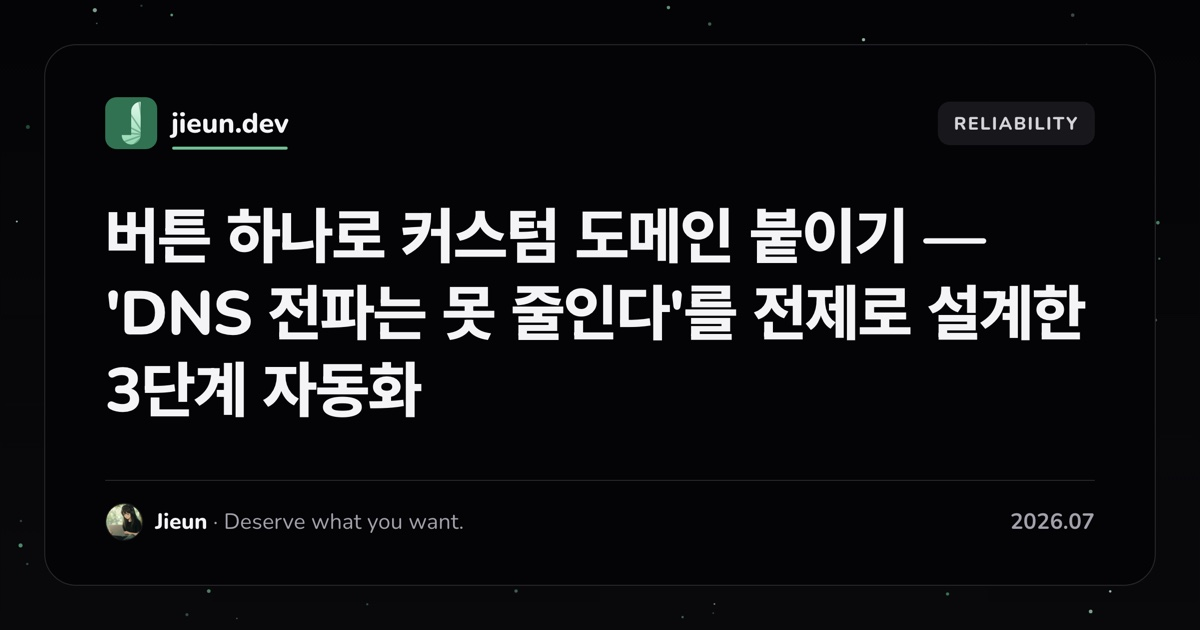
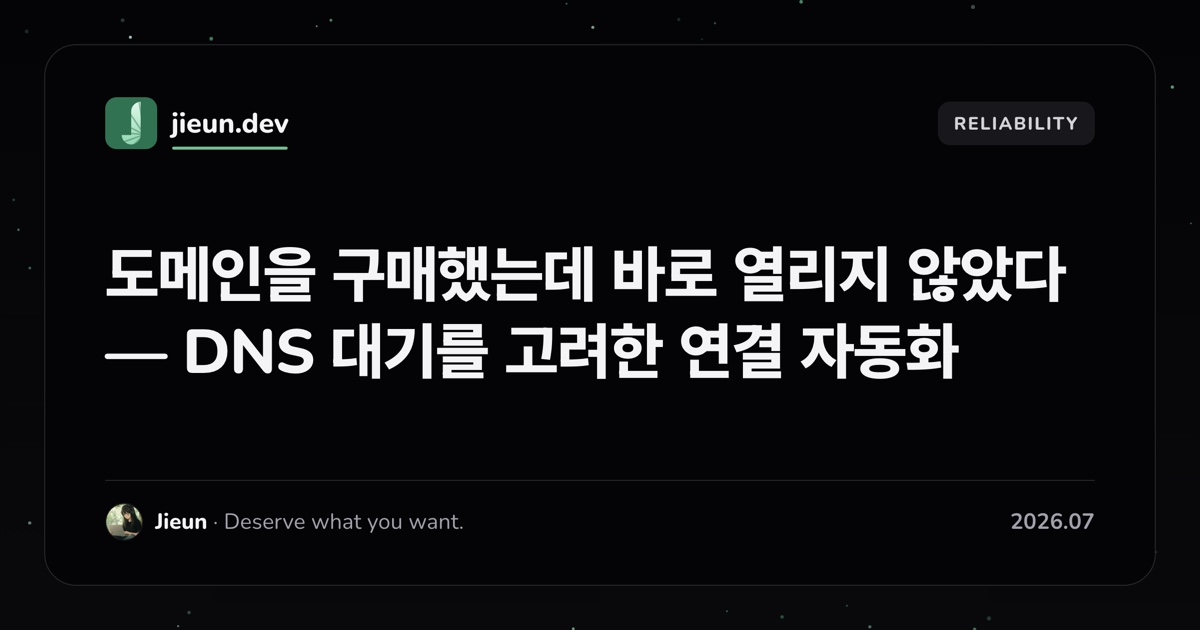
도메인 연결의 대기와 전환 조건을 구현에 맞춰 설명한다
Constraint: Keep URLs, publication dates, measurements, images, and other article bodies unchanged.
Confidence: high
Scope-risk: narrow
Tested: Astro build; bilingual series navigation separate from chronological navigation; canonical, hreflang, image paths, dates and measurement preservation; DNS, Caddy and GSC source comparison.
Not-tested: Historical raw purchase logs and live infrastructure experiments; English body translation is outside this change.

Changed region(s): [[0.0925, 0.3317, 0.925, 0.6635]]

diff --git a/src/content/blog/ko/automating-custom-domain-connection-a-delegation-gated-pipeline.md b/src/content/blog/ko/automating-custom-domain-connection-a-delegation-gated-pipeline.md
@@ -1,8 +1,9 @@
 ---
-title: "버튼 하나로 커스텀 도메인 붙이기 — 'DNS 전파는 못 줄인다'를 전제로 설계한 3단계 자동화"
-description: "도메인을 사서 블로그에 붙이는 기능을 만들었는데, 같은 코드로 네 번 사는 동안 네 번 다 다르게 실패했습니다. 원인은 하나였습니다. 우리가 못 줄이는 대기 구간(DNS 전파)을 무시하고 즉시 처리하려 한 것입니다. 이를 전제로 받아들이자 파이프라인이 '동기 1단계 + 워커 2단계'로 정리됐습니다."
-subtitle: "커스텀 도메인을 연결할 때 DNS 위임 전파를 기다리지 않아 인증서 발급과 검색엔진 등록이 실패했습니다. 위임 확인을 통과한 뒤 워커가 후속 작업을 수행하고 누락된 등록을 재처리하도록 연결 흐름을 자동화했습니다."
+title: "도메인을 구매했는데 바로 열리지 않았다 — DNS 대기를 고려한 연결 자동화"
+description: "도메인 구매와 DNS 설정, HTTPS 인증서 발급, 검색 등록을 자동화하며 겪은 실패를 정리했습니다. DNS 확인 이후 후속 작업을 실행하고 기존 주소를 유지하도록 연결 흐름을 바꿨습니다."
+subtitle: "도메인을 구매해도 외부 DNS에서 새 설정을 확인하기까지 시간이 필요했습니다. 즉시 처리할 작업과 DNS 확인 이후의 작업을 분리하고, 연결 상태 확인과 검색 등록 재처리를 자동화했습니다."
 pubDate: 2026-07-23
+updatedDate: 2026-10-25
 tags:
   [
     "dns",
@@ -18,144 +19,139 @@ category: reliability
 cover: /covers/automating-custom-domain-connection-a-delegation-gated-pipeline.webp
 coverAlt: "블로그 관리 화면에서 커스텀 도메인을 구매·연결하는 확인 모달"
 coverCaption: "구매 버튼 하나 뒤에 DNS 위임·인증서·검색엔진 등록이 자동으로 이어집니다."
+series: wiblog-custom-domains
+seriesOrder: 2
+seriesTitle: "위블로그 커스텀 도메인 도입기"
 ---
 
 ## 들어가며
 
-> [!NOTE]
-> 사용자가 "구매" 버튼을 누르면 도메인을 사서 블로그에 붙여주는 기능입니다. 버튼 한 번이면 될 줄 알았는데, 그 뒤엔 **우리가 코드로 못 줄이는 대기 구간**이 숨어 있었습니다.
+**위블로그 커스텀 도메인 도입기 · 2편**
 
-회사에서 운영하는 블로그 플랫폼은 각 블로그를 `myblog.example.com` 같은 서브도메인으로 서빙합니다. 여기에 사용자가 `myblog.shop` 같은 **자기 소유 커스텀 도메인**을 붙일 수 있게 하는 기능을 만들었습니다. 도메인 구매(Dynadot)부터 DNS·인증서·검색엔진 등록까지 **버튼 한 번에 자동으로** 끝나는 게 목표였습니다.
+위블로그에서는 사용자가 도메인을 구매하면 별도 설정 없이 자신의 블로그에 연결할 수 있도록 기능을 만들었습니다. 구매와 DNS 설정, HTTPS 인증서 발급, 구글 검색 등록까지 자동화하는 것이 목표였습니다.
 
-문제는 이를 테스트로 네 번 사보는 동안 **네 번 다 다르게 실패했다**는 점입니다. 24시간 동안 엉뚱한 페이지가 뜨기도 했고, 서버는 멀쩡한데 사용자만 못 들어가기도 했고, "완료"라는데 사이트가 안 열리기도 했습니다. 성공한 것도 있었지만 재현 가능한 성공은 아니었습니다.
+하지만 테스트를 위해 도메인을 네 번 구매하는 동안 연결 과정에서 매번 다른 문제가 생겼습니다. 어떤 도메인은 한동안 주차 페이지가 보였고, 어떤 도메인은 서버 설정이 끝났는데도 접속되지 않았습니다. 새 주소가 열리기 전에 기존 블로그 주소가 새 주소로 이동해, 멀쩡하던 블로그까지 볼 수 없었던 경우도 있었습니다.
 
-원인은 결국 하나로 모였습니다. **우리가 통제할 수 없는 대기 구간을 무시하고, 즉시 처리하려 했던 것.** 이 글은 그 대기를 전제로 받아들이고 파이프라인을 다시 세운 기록입니다.
+여러 문제를 추적해 보니 공통점이 있었습니다. 도메인을 구매하고 네임서버를 변경해도, 외부 DNS에서 새 설정을 확인하기까지는 시간이 필요했습니다. 그런데 초기 구현은 그 시간을 기다리지 않고 다음 작업을 실행했습니다.
 
----
+이후 **즉시 처리할 작업과 DNS 확인 이후 실행할 작업을 분리**했습니다. 첫 테스트에서는 연결까지 38분이 걸리고 세 번 수동으로 개입했지만, 마지막 테스트에서는 11분 만에 수동 개입 없이 연결을 마쳤습니다. 두 사례의 비교이므로 모든 도메인에서 같은 시간이 걸린다는 뜻은 아닙니다.
 
-## 1\. 문제 — 왜 "즉시 연결"이 불가능한가
+[1편 — 글은 발행됐는데 검색되지 않았다](/ko/blog/from-shared-subdomains-to-custom-domains-for-search-indexing/)에서는 위블로그가 커스텀 도메인을 권장하게 된 배경을 다뤘습니다. 이번 글은 별도의 구현 기록입니다. 시리즈 순서는 읽는 흐름에 맞춘 것이며, 아래 개발과 테스트의 실제 진행 순서를 바꿔 서술한 것은 아닙니다.
 
-도메인을 붙이는 일은 이사와 비슷합니다. 짐만 옮긴다고 끝이 아니라, 주소 이전 신고를 하고, 집 열쇠(인증서)를 받고, 우체국·검색엔진에 새 주소를 알려야 편지가 제대로 옵니다.
+## 1. 구매 완료와 연결 완료는 달랐습니다
 
-이 중 **주소 이전 신고(DNS 위임)** 가 핵심입니다. "이 도메인은 이제 Cloudflare 네임서버를 보세요"라고 등록기관에 알리는 건데, 이게 **전 세계 DNS에 퍼지는 데 시간이 걸립니다.** 실측하면 이랬습니다.
+도메인 연결은 한 번의 API 호출로 끝나는 작업이 아니었습니다.
 
-```plaintext
-도메인 A   위임 전파   2분
-도메인 B   위임 전파   13분
-```
+1. **도메인 구매:** Dynadot에서 도메인을 등록합니다.
+2. **DNS 설정:** Cloudflare에 서버 주소를 등록하고 도메인의 네임서버를 변경합니다.
+3. **HTTPS 설정:** 새 주소로 접속할 수 있도록 Caddy 설정과 인증서를 준비합니다.
+4. **검색 등록:** Google Search Console(GSC)에서 도메인 소유권을 확인하고 사이트맵을 제출합니다.
 
-같은 코드로 산 도메인인데 6배 넘게 차이 납니다. 등록기관·레지스트리·인터넷 사정이라 **우리가 코드로 줄일 수 있는 값이 아닙니다.**
+서로 다른 서비스가 관여하기 때문에 앞 단계의 API가 성공했다고 다음 단계도 준비됐다고 볼 수 없었습니다.
 
-그래서 진짜 질문은 "어떻게 빠르게 연결할까"가 아니라 **"이 대기를 어떻게 감출까"** 였습니다. 답은 단순합니다.
+실제로 네임서버 변경 사항이 확인되기까지 걸린 시간은 테스트한 도메인마다 달랐습니다.
 
-- **몇 초 안에 끝나는 것** → 사용자가 기다리는 동안 즉시 처리 (동기)
-- **기다려야 하는 것** → 워커에게 넘기고, 사용자는 화면을 떠나도 되게 (비동기)
+| 테스트 사례 | 네임서버 변경 사항을 확인하기까지 걸린 시간 |
+|---|---:|
+| 도메인 A | 약 2분 |
+| 도메인 B | 약 13분 |
 
-파이프라인이 **동기 1단계 + 워커 2단계**로 갈라진 이유가 이것입니다. 이제 각 단계를 살펴보겠습니다.
+둘 다 같은 연결 코드를 사용했습니다. 이 시간은 당시의 관찰값이지 DNS 변경이 항상 2~13분 안에 완료된다는 뜻은 아닙니다.
 
----
+초기 구현에서는 네임서버 변경 요청 직후 Caddy 설정을 적용하고 GSC 소유권 확인도 시도했습니다. 그러나 외부 DNS에서 새 도메인 설정을 아직 찾지 못하는 상황이라면 HTTPS 인증서 발급이나 소유권 확인은 실패할 수 있습니다.
 
-## 2\. 1단계 — 즉시 세팅 (동기, 몇 초)
+**연결 준비가 끝났는지 확인한 뒤 다음 작업을 실행하도록 바꾸는 것**이 필요했습니다.
 
-사용자가 버튼을 누르고 응답을 기다리는 구간입니다. 그래서 여기서는 **되돌릴 수 없거나 몇 초 안에 끝나는 것만** 합니다.
+## 2. 구매 직후에는 기다릴 필요 없는 설정만 처리했습니다
 
-1. **도메인 실구매** — 가격이 검색 때와 다르면 멈추고 다시 물어본 뒤 결제(Dynadot)
-2. **A 레코드 등록** — "이 이름 = 우리 서버"를 Cloudflare에 적음
-3. **위임(set_ns)** — "이 도메인은 Cloudflare를 보세요"를 등록기관에 신고
-4. **검색엔진용 TXT 게시** — 구글이 나중에 소유 확인할 때 볼 쪽지만 붙여둠
-5. **caddy·빌드 작업을 큐에 던지고 응답 반환**
+사용자가 구매 버튼을 누른 뒤 오래 기다리지 않도록, 처음 요청에서는 바로 할 수 있는 작업만 처리했습니다.
 
-순서가 사고로 정해진 게 두 군데 있습니다.
+- 검색 시 확인한 가격과 실제 결제 가격이 달라졌다면 구매를 중단하고 다시 확인받습니다.
+- Dynadot에서 도메인을 구매합니다.
+- Cloudflare에 서버 주소를 가리키는 A 레코드를 등록합니다.
+- 등록기관에 Cloudflare 네임서버 사용을 요청합니다.
+- 소유권 확인용 TXT 레코드를 등록합니다.
+- 남은 연결 작업은 큐에 등록하고 화면에는 **‘연결 중’** 상태를 표시합니다.
 
-**A 레코드가 위임보다 먼저여야 합니다.** 반대로 하면, 위임이 먼저 퍼진 그 틈에 Cloudflare가 "그런 주소 없음(NXDOMAIN)"을 권위 있게 답합니다. 그 응답이 사용자의 통신사 DNS에 캐시되면, 도메인이 살아난 뒤에도 **그 사용자만 최대 1시간 접속하지 못합니다.** 답(A 레코드)을 먼저 깔아두면 위임이 퍼지는 순간 이미 답이 있어 이 틈이 사라집니다.
+여기서 **A 레코드를 준비한 다음 네임서버를 바꾸는 순서**가 중요했습니다.
 
-**set_ns는 "완료됐다"는 응답을 믿지 않습니다.** 구매 직후 몇 초는 등록기관이 도메인을 완전히 준비하기 전이라, API가 `success`를 돌려주면서 **실제로는 아무것도 안 바꾸는** 경우가 있었습니다. 그래서 신고 후 실제 네임서버를 다시 읽어 기대값과 대조하고, 다르면 재시도합니다.
+네임서버 변경이 먼저 반영됐는데 Cloudflare에 A 레코드가 없다면, DNS 조회에서 요청한 주소 정보가 없다는 부정 응답이 반환될 수 있습니다. 그 응답이 캐시에 남으면 레코드를 추가한 뒤에도 일부 사용자에게 접속 문제가 계속될 수 있습니다.
 
-**GSC는 TXT 쪽지만 붙이고, 소유 확인은 여기서 하지 않습니다.** 이 시점엔 위임이 안 퍼져 구글이 쪽지를 볼 수 없어 반드시 실패하기 때문입니다. 왜 확인을 미루는지는 4장에서 다루겠습니다.
+네임서버 변경 API의 성공 응답만 믿을 수도 없었습니다. 구매 직후 등록기관에서 도메인 준비가 끝나기 전에 변경을 요청하면, 성공 응답을 받았지만 기대한 네임서버가 실제로 설정되지 않은 사례가 있었습니다. 그래서 변경 후 설정값을 다시 조회하고 일치하지 않으면 재시도하도록 했습니다.
 
-여기까지 몇 초. 사용자 화면엔 "연결 중"이 뜨고, 나머지는 워커에게 넘어갑니다.
+GSC 소유권 확인은 이 단계에서 하지 않았습니다. TXT 레코드를 등록했더라도 외부 DNS에서 새 네임서버를 아직 조회하지 못하면 구글이 해당 레코드를 확인할 수 없기 때문입니다.
 
----
+## 3. 네임서버 변경을 확인한 뒤 HTTPS를 열었습니다
 
-## 3\. 2단계 — 위임 대기와 문 열기 (워커)
+구매 요청에서 넘긴 작업은 별도의 워커가 처리합니다. 워커는 공개 DNS 서비스(1.1.1.1과 8.8.8.8)를 통해 네임서버 설정을 조회했습니다.
 
-여기가 핵심입니다. 워커는 **위임이 퍼진 걸 직접 확인한 뒤에만** 도메인을 엽니다.
+- 두 공개 DNS 중 어느 곳에서도 Cloudflare 네임서버가 확인되지 않으면 Caddy 설정을 적용하지 않고 재시도합니다.
+- 한 곳에서 Cloudflare 네임서버가 확인되면 Caddy에 새 도메인과 기존 주소의 리다이렉트 설정을 함께 적용합니다.
+- 이후 새 주소의 HTTPS 응답을 확인하고 활성화 기록과 캐시 정리를 진행합니다.
 
-```plaintext
-caddy-reload 잡
-  │
-  ├─ ① 위임 게이트 ── 공개 DNS(1.1.1.1/8.8.8.8)로 "이 도메인 네임서버가 Cloudflare인가?" 확인
-  │      아직이면 → 잡을 실패시켜 재시도 (설정 안 씀)
-  │      확인되면 → 계속
-  │
-  ├─ ② Caddy 설정 기록 → 인증서 자동 발급 → HTTPS 열림
-  │
-  └─ ③ 뒷정리 (구 주소 301 · 엣지 캐시 purge · HTML 캐시 규칙)
-```
+기존 구현에서는 DNS가 준비되지 않은 상태에서 Caddy가 인증서 발급을 시도한 뒤, 재시작하기 전까지 새 주소가 열리지 않았던 사례가 있었습니다. 당시 관찰한 장애는 여기에 해당하지만, 모든 환경에서 같은 실패가 영구적으로 발생한다는 뜻은 아닙니다.
 
-**①번 게이트가 이 설계의 핵심입니다.** Caddy는 설정을 받는 순간 그 도메인의 인증서를 발급하려 합니다. 그런데 위임이 안 퍼진 상태에서 발급을 시도하면, 인증서 발급기가 도메인의 상위 영역을 잘못 지목해 **그 오판을 캐시**합니다. 이 캐시는 재시작 전까지 안 지워져서, 한 번 이렇게 되면 도메인이 **영구히 열리지 않습니다.** 실제로 이 문제로 한 도메인이 재시작하기 전까지 계속 열리지 않았습니다.
+또 다른 문제는 **기존 주소를 너무 일찍 새 주소로 보내는 것**이었습니다. 이전에는 새 도메인이 열리지 않는데도 기존 서브도메인을 새 주소로 리다이렉트해, 원래 접속할 수 있던 블로그까지 접근하기 어려워졌습니다.
 
-게이트는 이 사고를 원천 차단합니다. "확인되기 전엔 설정을 안 쓴다"는 규칙 하나만 적용하면 됩니다. 그리고 부수 효과로 **다운타임도 사라집니다.** 설정 안에는 "구 주소 → 새 주소" 리다이렉트가 함께 들어 있는데, 예전엔 새 도메인이 열리지 않는 동안 구 주소까지 열리지 않는 새 주소로 리다이렉트됐습니다. 게이트가 막고 있으면 그동안 구 주소(`myblog.example.com`)가 계속 정상 서빙됩니다.
+네임서버 변경이 확인되기 전까지 기존 주소는 그대로 서비스하도록 순서를 바꿨습니다. 다만 리다이렉트 설정은 HTTPS 응답 확인보다 먼저 적용되므로, 인증서 준비가 늦어지는 동안의 접근 문제까지 없어진다고 보장하지는 않습니다.
 
-재시도 예산은 넉넉하게 잡았습니다. **1분 간격으로 최대 6시간.** 위임 전파가 아무리 느려도 그 안에 끝나면 다음 시도에서 바로 통과하고, 대기 중인 잡은 비용이 없으니 예산을 크게 둬도 부담이 없습니다.
+워커는 당시 1분 간격으로 최대 6시간 재시도하도록 설정했습니다. 이것은 DNS가 6시간 안에 반드시 반영된다는 보장이 아니라, 그동안 자동으로 상태를 확인하기 위한 운영 정책입니다. 공개 DNS 두 곳의 확인만으로 모든 사용자의 DNS 캐시가 갱신됐다고 보장할 수 없다는 한계도 있습니다.
 
----
+## 4. 검색엔진 등록은 별도 작업으로 처리했습니다
 
-## 4\. 3단계 — 검색엔진 등록을 워커로 (백필)
+HTTPS 연결이 준비돼도 검색엔진 등록은 별도의 단계가 필요했습니다. GSC의 도메인 소유권을 확인하려면 구글이 DNS TXT 레코드를 읽을 수 있어야 합니다.
 
-이 글에서 가장 손이 많이 간 부분입니다. 구글 검색등록(GSC)은 **소유 확인 → 사이트맵 제출** 순인데, 소유 확인이 까다롭습니다.
+처음에는 도메인 구매 직후 약 18초 동안 확인을 재시도했습니다. 하지만 테스트에서 이 구간에 소유권 확인이 성공하지 않아 사용자만 더 기다리게 됐습니다.
 
-확인 방법은 DNS에 붙여둔 TXT 쪽지를 구글이 읽는 것입니다. 그런데 구글이 쪽지를 읽으려면 위임이 다 퍼져 있어야 합니다. 안 퍼졌으면 구글은 "그런 도메인 몰라요"라는 답만 받고 소유 확인을 거부합니다. **즉 구매 직후엔 GSC 등록이 무조건 실패합니다.** 실제로 테스트한 도메인 다섯 건이 전부 구매 시점 확인에서 실패했습니다.
+이를 없애고 다음처럼 바꿨습니다.
 
-원래는 이를 구매 직후에 잠깐(18초) 재시도했습니다. 그런데 위임 전파가 최소 2분이라 18초 안에 끝나는 경우는 없었고, 결국 **사용자를 18초 더 기다리게 하는** 코드였습니다. 그래서 이 시도를 없앴습니다. 대신 작업을 이렇게 나눴습니다.
+| 실행 시점 | 작업 |
+|---|---|
+| 구매 직후 | 소유권 확인용 TXT 레코드 등록 |
+| 네임서버 확인 이후 | GSC 소유권 확인 및 사이트맵 제출 시도 |
+| 30분마다 | 이전 시도가 실패했거나 누락된 도메인 재처리 |
 
-- **1단계(구매 직후):** TXT 쪽지만 붙입니다. 확인·제출은 하지 않습니다.
-- **워커(위임 확인 후):** 그때 소유 확인 → 사이트맵 제출을 두 번에 나눠 백필합니다.
+주기적인 확인을 추가한 이유는 네임서버 변경이 끝나도 구글 API 오류나 작업 중단으로 검색 등록이 실패할 수 있기 때문입니다. 실제로 자동 등록이 누락돼 수동 복구 스크립트를 실행해야 했던 사례가 있었습니다.
 
-두 번으로 나눈 이유가 있습니다.
+한 시점에서 같은 요청을 빠르게 반복하는 대신, **연결 가능 상태가 된 뒤 시도하고 실패한 작업은 나중에 다시 확인**하도록 했습니다.
 
-| 시점             | 역할                                                  |
-| ---------------- | ----------------------------------------------------- |
-| 위임 확인 직후   | **정상 경로.** 인증서 발급 뒤 이어서 GSC까지 등록     |
-| 30분마다(스케줄) | **안전망.** 정상 경로가 놓친 도메인을 주기적으로 줍기 |
+## 5. 사용자에게는 실제 접속 상태를 보여줬습니다
 
-안전망이 필요한 이유는 위임 확인 직후 등록도 실패할 수 있기 때문입니다. 워커가 그때 재시작 중이었거나, 구글 API에 일시 장애가 있었을 수 있습니다. 실제로 한 도메인이 이런 이유로 몇 시간 방치된 적이 있었고, 그때는 제가 손으로 복구 스크립트를 돌려야 했습니다. 30분 스케줄이 있으면 사람 없이 자동으로 처리됩니다.
+사용자 화면에는 ‘연결 중’ 모달을 띄우고 약 5초마다 상태를 확인하도록 했습니다.
 
-핵심은 **"한 번 더"가 아니라 "다른 순간에"** 입니다. 같은 시점에 여러 번 시도하면 다 똑같은 이유로 실패합니다. 위임 확인 직후 한 번, 그 뒤 주기적으로 한 번 — 각자 다른 실패를 담당합니다.
+단순히 데이터베이스의 작업 완료 여부만 읽는 대신, 서버에서 DNS와 HTTPS 상태를 조회해 실제 접근 가능 여부를 판단했습니다. 큐의 작업 상태와 사용자가 접속할 수 있는 상태는 반드시 같지 않기 때문입니다.
 
----
+새 도메인 연결이 확인되기 전에는 클릭 가능한 링크로 제공하지 않았습니다. 브라우저나 다른 소프트웨어가 링크 주소를 미리 조회할 경우, 아직 준비되지 않은 DNS 응답이 캐시될 가능성을 줄이기 위해서였습니다. 연결 전에는 기존 블로그 주소를 계속 제공했습니다.
 
-## 5\. 화면은 어떻게 진행을 따라가나
+이렇게 구매 완료와 실제 서비스 가능 상태를 구분해 표시했습니다.
 
-사용자 화면은 "연결 중" 모달을 띄우고 5초마다 상태를 물어봅니다. 이때 상태를 **DB에 저장해두고 읽는 게 아니라, 매번 DNS·HTTPS를 실제로 조회해 판정**합니다. 저장값은 워커가 중단되거나 전파가 흔들리면 현실과 어긋나기 때문입니다.
+## 6. 마지막 구매 테스트에서는 수동 개입 없이 연결됐습니다
 
-한 가지 더, **완료 전에는 새 도메인을 링크로 보여주지 않습니다.** 브라우저는 화면의 링크를 미리 DNS 조회하는데(prefetch), 아직 위임 전인 새 주소를 링크로 걸면 그 조회가 "없음"을 통신사 DNS에 캐시시킵니다. 그러면 도메인이 살아난 뒤에도 그 사용자만 한동안 못 들어갑니다. 그래서 연결 중에는 **아직 살아 있는 구 주소를 대표로** 보여주고, 새 주소는 텍스트로만 노출합니다.
+초기 테스트와 마지막 테스트의 기록은 다음과 같습니다.
 
----
+| 항목 | 첫 테스트 | 마지막 테스트 |
+|---|---|---|
+| 연결까지 걸린 시간 | 38분 | 11분 |
+| 수동 개입 | 3회 | 0회 |
+| 연결을 위해 서버 재시작 | 필요 | 불필요 |
+| 이전 블로그 주소 | 새 주소 문제의 영향을 받음 | 네임서버 확인 전까지 유지 |
 
-## 6\. 결과 — 수동 3회에서 0회로
+개선 과정에서 중요했던 설정 중 하나는 **등록기관 계정의 기본 네임서버를 처음부터 Cloudflare로 지정한 것**입니다.
 
-첫 도메인과 마지막 도메인을 비교하면 이렇게 바뀌었습니다.
+첫 테스트에서는 도메인이 잠시 등록기관의 기본 주차 페이지를 가리키는 상태로 시작했습니다. 일부 DNS 캐시에 그 응답이 남아 새 사이트 대신 주차 페이지가 표시되는 문제가 있었습니다. 초기 네임서버 설정을 바꾼 뒤에는 테스트에서 이 중간 상태를 피할 수 있었습니다.
 
-| 항목        | 첫 시도                | 마지막 시도 |
-| ----------- | ---------------------- | ----------- |
-| 소요        | 38분                   | 11분        |
-| 수동 개입   | **3회**                | **0회**     |
-| 서버 재시작 | 필요                   | 불필요      |
-| 구 주소     | 열리지 않는 새 주소로 리다이렉트 | 계속 정상   |
+결과가 좋아진 이유를 하나의 변경으로만 설명할 수는 없습니다. 레코드 생성 순서, 네임서버 확인, 인증서 발급 시점, 리다이렉트 전환, 주기적인 복구 작업을 함께 바꿨기 때문입니다. 첫 테스트와 마지막 테스트는 서로 다른 도메인을 사용했으므로, 소요 시간 차이 전체가 코드 개선 덕분이라고 단정하지도 않습니다.
 
-가장 크게 바꾼 건 사실 코드가 아니었습니다. **등록기관 계정의 기본 네임서버를 Cloudflare로 지정한 설정 한 줄**이었습니다.
-
-첫 도메인이 24시간 동안 엉뚱한 파킹 페이지를 띄운 원인이 여기 있었습니다. 도메인이 처음엔 등록기관 기본 네임서버(파킹)로 태어났다가 나중에 Cloudflare로 바뀌는데, 그 짧은 파킹 상태가 통신사 DNS에 캐시되면 **최대 24시간** 남았습니다. 기본값을 처음부터 Cloudflare로 두니 파킹 상태 자체가 생기지 않았습니다.
-
-지금까지의 코드 수정들이 "나쁜 상태가 생긴 뒤 노출을 줄이는" 것이었다면, 이 한 줄은 **나쁜 상태를 애초에 만들지 않는** 것이었습니다. 결이 달랐고, 효과도 가장 컸습니다.
-
-물론 없애지 못하는 것도 남습니다. **"등록 → 레지스트리 반영" 사이의 최대 1시간.** 이 구간에 누가 그 도메인을 조회하면 "없음"이 잠시 캐시됩니다. DNS에는 캐시를 강제로 지우는 수단이 없어서, 이는 줄일 수 없습니다. 대신 **그 구간에 아무도 조회하지 않게** 하는 것이 최선이고, 그래서 화면에서 새 주소를 미리 노출하지 않습니다.
-
----
+다만 마지막 테스트에서는 도메인 연결을 마치기 위해 직접 재시작하거나 복구 스크립트를 실행할 필요가 없었습니다.
 
 ## 마무리하며
 
-같은 코드로 네 번 사서 네 번 다 달랐던 이유는, 매번 위임 전파 시간이 달랐기 때문입니다. 그 대기를 없애려 한 게 실수였고, **전제로 받아들이자** 설계가 정리됐습니다.
+처음에는 도메인 구매부터 HTTPS 연결, 검색엔진 등록까지 한 번에 끝내려고 했습니다. 실제로는 DNS 설정이 외부에서 확인되기 전에 다음 작업이 시작되면서 장애가 생겼습니다.
 
-정리하면 원칙은 한 줄입니다. **확인되기 전엔 아무것도 하지 않고, 확인되면 자동으로 다 하고, 놓친 건 주기적으로 줍습니다.** 위임 게이트가 첫 문장을, 워커의 뒷정리가 둘째를, 30분 스케줄이 셋째를 담당합니다.
+그래서 구매 직후 처리할 작업과 외부 DNS 확인 이후 실행할 작업을 분리했습니다. 네임서버 변경이 확인되기 전까지 기존 주소를 유지하고, 검색 등록에 실패한 작업은 주기적으로 다시 처리하도록 바꿨습니다.
+
+이 경험에서 중요했던 것은 DNS 대기 시간을 없애는 방법이 아니라, **기다리는 동안 사용자가 기존 블로그를 계속 사용할 수 있게 하고 이후 작업을 자동으로 이어가는 구조**였습니다.
+
+---
+
+**이전 글:** [1편 — 글은 발행됐는데 검색되지 않았다: 커스텀 도메인을 권하게 된 이유](/ko/blog/from-shared-subdomains-to-custom-domains-for-search-indexing/)

diff --git a/src/content/blog/en/automating-custom-domain-connection-a-delegation-gated-pipeline.md b/src/content/blog/en/automating-custom-domain-connection-a-delegation-gated-pipeline.md
@@ -18,6 +18,9 @@ category: reliability
 cover: /covers/automating-custom-domain-connection-a-delegation-gated-pipeline.webp
 coverAlt: "A confirmation modal for buying and attaching a custom domain in the blog admin"
 coverCaption: "Behind one buy button: DNS delegation, certificate issuance, and search-engine registration, all automatic."
+series: wiblog-custom-domains
+seriesOrder: 2
+seriesTitle: "Introducing custom domains in Wiblog"
 ---
 
 ## Introduction

diff --git a/src/content/blog/ko/from-shared-subdomains-to-custom-domains-for-search-indexing.md b/src/content/blog/ko/from-shared-subdomains-to-custom-domains-for-search-indexing.md
@@ -11,6 +11,9 @@ coverFit: contain
 coverBackground: light
 coverAlt: "위블로그의 도메인 검색·구매 화면"
 coverCaption: "도메인 검색 결과에서 추천 여부와 등록가·갱신가를 함께 안내합니다."
+series: wiblog-custom-domains
+seriesOrder: 1
+seriesTitle: "위블로그 커스텀 도메인 도입기"
 ---
 
 ## 들어가며

diff --git a/src/content/blog/en/from-shared-subdomains-to-custom-domains-for-search-indexing.md b/src/content/blog/en/from-shared-subdomains-to-custom-domains-for-search-indexing.md
@@ -10,6 +10,9 @@ coverFit: contain
 coverBackground: light
 coverAlt: "The domain search and purchase screen in Wiblog"
 coverCaption: "Domain search results show recommendations alongside registration and renewal prices."
+series: wiblog-custom-domains
+seriesOrder: 1
+seriesTitle: "Introducing custom domains in Wiblog"
 ---
 
 ## Introduction
